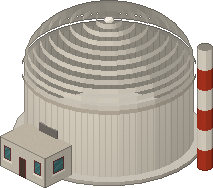
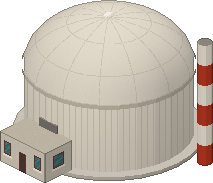
Smooth cooling towers, reactor domes and water-tower roofs; clean Cola bottle
The towers, domes and cone were stacks of short upright rings, which drew
as stairs outlined like a wireframe. A new lathe() builds a true surface of
revolution: two triangles per facet, the light at each vertex from the
surface's facing there blended across them (smooth shading round and up),
and dim seams on every few sectors and rings as the only polygon lines.
The cooling tower's weathering streaks are fainter.

The Cola bottle's shine was a 1-px dark stripe down its right side, drawn
over the white label; it's now a faint highlight on the lit side, above and
below the label.

diff --git a/tools/art.py b/tools/art.py
@@ -1808,6 +1808,52 @@ def disk(s, r, z, shader, n=20, cx=0.0, cy=0.0):
         s.face((cx, cy, z), (xa, ya, 0), (xb, yb, 0), shader, tri=True)
 
 
+def lathe(s, prof, color_for, n=32, cx=0.0, cy=0.0, seams=(2, 2), seam_k=0.9, grain=3.0):
+    """Surface of revolution through prof [(r, z), ...] from the bottom up:
+    n sectors of two triangles each, shaded smoothly (the light at each
+    vertex from the surface's facing there, blended across the triangles),
+    with dim seams along every seams[0]-th sector edge and seams[1]-th ring
+    as the only hint of the polygons. color_for(k, j) is facet (k, j)'s rgb."""
+    m = len(prof) - 1
+    seg = []                                                       # each segment's (radial, up) normal
+    for j in range(m):
+        (r0, z0), (r1, z1) = prof[j], prof[j + 1]
+        dr, dz = (r1 - r0) * 71.6, z1 - z0
+        L = math.hypot(dr, dz) or 1
+        seg.append((dz / L, -dr / L))
+    nrm = [seg[0]] + [((seg[j - 1][0] + seg[j][0]) / 2, (seg[j - 1][1] + seg[j][1]) / 2) for j in range(1, m)] + [seg[-1]]
+    ang = [2 * math.pi * k / n for k in range(n + 1)]
+
+    def lit(k, j):
+        t = ang[k]
+        side = 0.62 + 0.28 * max(0.0, math.sin(t)) + 0.12 * max(0.0, math.cos(t))
+        nr, nu = nrm[j]
+        w = nr * nr + nu * nu or 1
+        return (side * nr * nr + LIGHT["top"] * max(nu, 0) ** 2 + side * min(nu, 0) ** 2) / w
+    P = lambda k, j: (cx + prof[j][0] * math.cos(ang[k]), cy + prof[j][0] * math.sin(ang[k]), prof[j][1])
+
+    def tri(v0, v1, v2, l0, l1, l2, base, seam_a, seam_b):
+        g = [sum(c) / 3 for c in zip(v0, v1, v2)]                  # grown 2% about the middle: no seams
+        v0, v1, v2 = ([g[i] + (v[i] - g[i]) * 1.02 for i in range(3)] for v in (v0, v1, v2))
+        e1, e2 = [v1[i] - v0[i] for i in range(3)], [v2[i] - v0[i] for i in range(3)]
+
+        def sh(a, b, xs, ys):
+            light = l0 + (l1 - l0) * a + (l2 - l0) * b
+            out = base[None] * light[:, None] + (s.grain[ys, xs] - 0.5)[:, None] * grain
+            seam = (a < seam_a) | (b < seam_b)
+            return np.where(seam[:, None], out * seam_k, out)
+        s.face(tuple(v0), tuple(e1), tuple(e2), sh, tri=True, light=1.0)
+    for j in range(m):
+        for k in range(n):
+            p00, p01, p10, p11 = P(k, j), P(k + 1, j), P(k, j + 1), P(k + 1, j + 1)
+            base = np.asarray(color_for(k, j), float)
+            w1 = math.dist(s.proj(*p00), s.proj(*p01)) or 1           # facet size on screen, for 1-px seams
+            w2 = math.dist(s.proj(*p00), s.proj(*p10)) or 1
+            tri(p00, p01, p10, lit(k, j), lit(k + 1, j), lit(k, j + 1), base,
+                1 / w1 if k % seams[0] == 0 else -1, 1 / w2 if j % seams[1] == 0 else -1)
+            tri(p11, p10, p01, lit(k + 1, j + 1), lit(k, j + 1), lit(k + 1, j), base, -1, -1)
+
+
 def lighthouse(seed):
     """Classic lighthouse: stone plinth, a tapering white tower with red
     bands, a gallery with a railing, the lit lantern and a red cap. Returns
@@ -3283,7 +3329,8 @@ def bottle_tex(W=16, H=26):
         if 13 < y < 18:
             t[y, cx - w:cx + w] = [*rgb("#f0ece4"), 255]
     t[0:2, cx - 2:cx + 2] = [*rgb("#c8402a"), 255]
-    t[8:, cx + 2:cx + 3] = [*rgb("#8a5a3a"), 255]
+    for y0, y1 in ((10, 14), (18, H - 1)):                   # glass shine on the lit side, not over the label
+        t[y0:y1, cx - 3] = [*rgb("#6a3a28"), 255]
     return t
 
 
@@ -3404,8 +3451,7 @@ def water_tower(seed):
             p, q = s.proj(ax, ay, z), s.proj(bx, by, z)
             s.line(p, q, rgb("#716f74"), 0.2)
     tank(s, 0, 0, 0.32, 36, "#b8c4cc", "#8e98a0", z0=80)
-    for k in range(6):                                              # cone
-        ring(s, 0.32 - k * 0.05, 116 + k * 3, 3, lambda i: flat(s, "#8e98a0", 3), n=16)
+    lathe(s, [(0.34, 116), (0.17, 125), (0.0, 133)], lambda k, j: rgb("#8e98a0"), n=16, seams=(2, 9), seam_k=0.88)   # cone
     s.outline(0.78)
     return s
 
@@ -3642,14 +3688,11 @@ def cooling_tower(seed, R=1.15, H=170):
         for da in (-0.05, 0.05):
             x, y = R * math.cos(a + da), R * math.sin(a + da)
             s.line(s.proj(x, y, 0), s.proj(x * 0.99, y * 0.99, 12), rgb("#bdb3a2"), x + y + 0.02)
-    for z in range(12, H, 5):
-        r = shell(z)
-        base = rgb("#d8d4cc") * (1.0 if (z // 5) % 2 else 0.965)
-        wear = min(1.0, (H - z) / 60)                                           # streaks fade downward
-        def face_sh(k, base=base, wear=wear):
-            c = base * (0.86 if streaks[k] and wear < 1 else 1.0) if z > H - 60 else base
-            return flat(s, c, 4)
-        ring(s, r, z, 6, face_sh, n=28)
+    zs = list(range(12, H, 8)) + [H - 4]
+    base = rgb("#d8d4cc")
+    # Weathering: some sectors streaked down from the lip, fading downward.
+    color = lambda k, j: base * (1 - 0.05 * max(0.0, 1 - (H - zs[j]) / 60)) if streaks[k] else base
+    lathe(s, [(shell(z), z) for z in zs], color, n=28, seams=(4, 3), seam_k=0.93)
     rt = shell(H)
     ring(s, rt + 0.02, H - 4, 5, lambda k: flat(s, "#a69c8c", 3), n=28)       # lip
     disk(s, rt, H + 1, flat(s, "#3a3a3e", 2), n=28)
@@ -3686,11 +3729,8 @@ def reactor(seed):
                                                       rgb("#dcd4c4") * (0.97 + 0.06 * b_[:, None])))
     ring(s, R, 4, H - 4, drum, n=28)
     ring(s, R + 0.02, H - 3, 4, lambda k: flat(s, "#bdb3a2", 3), n=28)
-    for k in range(10):                                        # dome in panels
-        t0 = k / 10
-        r = R * math.cos(t0 * math.pi / 2)
-        tone = rgb("#e4dccc") * (1.0 if k % 3 else 0.95)
-        ring(s, max(r, 0.05), H + math.sin(t0 * math.pi / 2) * 46, 5, lambda i, tone=tone: flat(s, tone * (0.97 if i % 4 == 0 else 1.0), 3), n=28)
+    dome = [(R * math.cos(t * math.pi / 2), H + math.sin(t * math.pi / 2) * 46) for t in np.linspace(0, 1, 10)]
+    lathe(s, dome, lambda k, j: rgb("#e4dccc"), n=28, seams=(2, 3), seam_k=0.92)     # dome in panels
     s.blob((0, 0, H + 48), 5, ramp("#c8c2b6", "#e0d8c8", "#f0ece4"), squash=0.6)
     s.box(-0.14, R - 0.05, 24, 0.28, 0.06, 18, *(flat(s, c) for c in ("#8e8680", "#76706a", "#6a645e")))   # equipment hatch
     s.box(-0.35, R - 0.02, 4, 0.7, 0.42, 30, flat(s, "#bdb3a2"),
